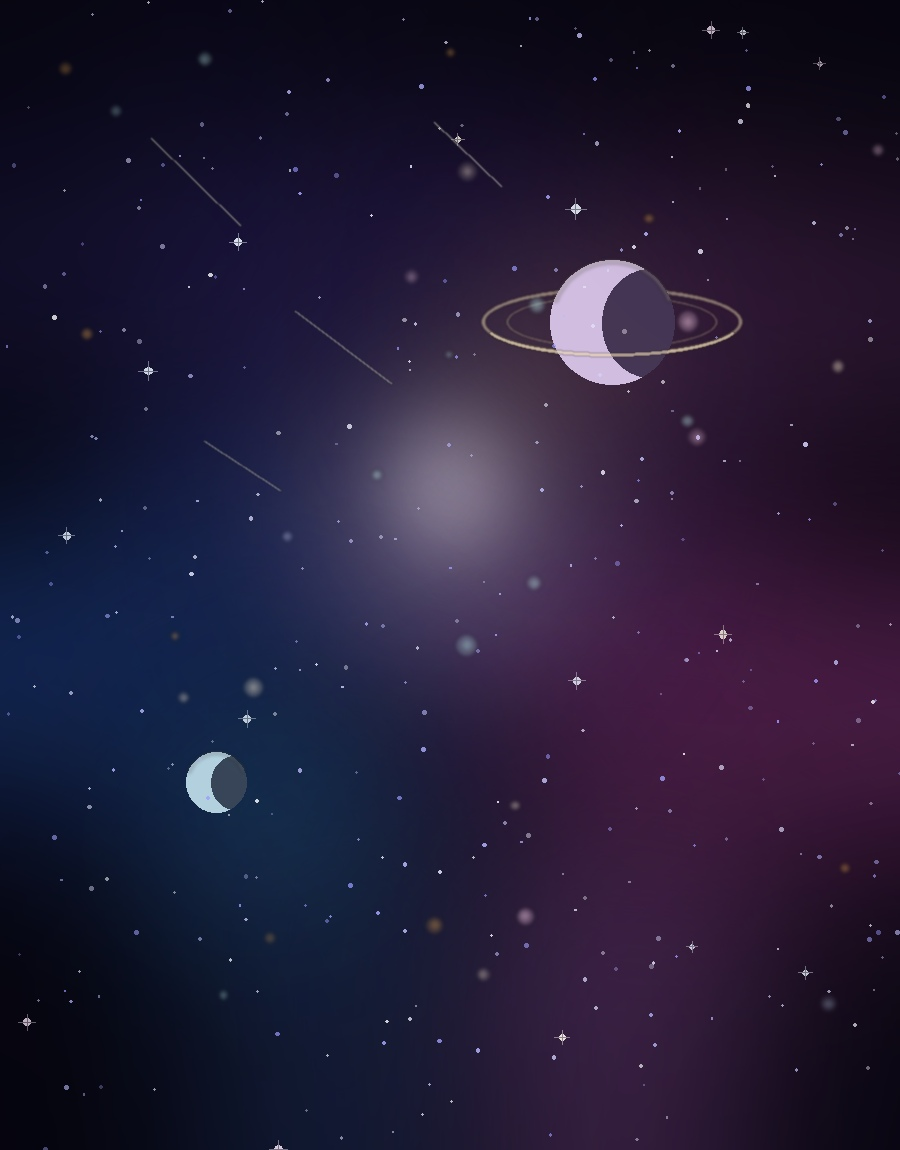
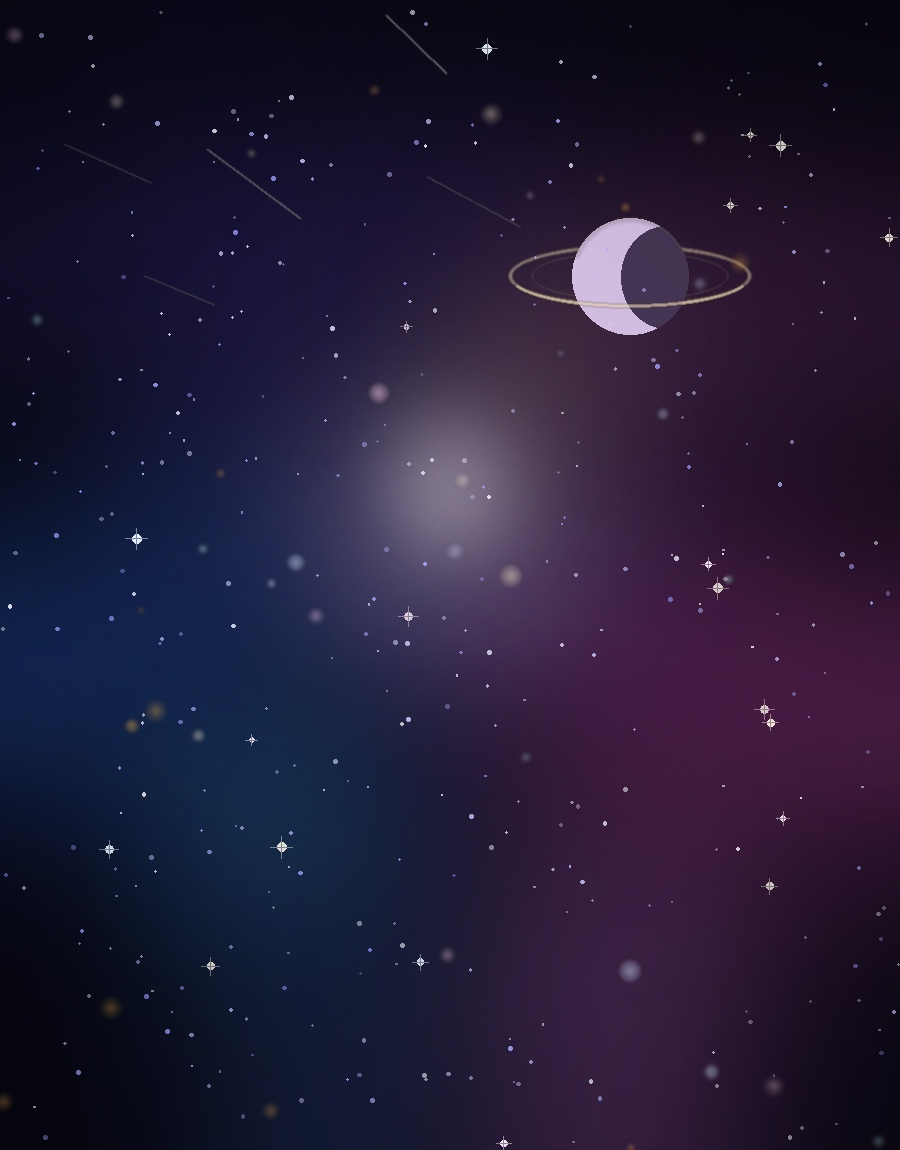
Make the hero background photo actually visible (was blurred/masked into near-invisibility) so the book image reads clearly behind the S monogram

diff --git a/world.html b/world.html
@@ -359,20 +359,20 @@
     const sButterflyTexture = new THREE.TextureLoader().load('assets/butterfly.png');
     const sFlyAspect = 369/324;
     const sButterflies = [];
-    const sN = isSmallScreen ? 7 : 11;
+    const sN = isSmallScreen ? 10 : 15;
     for(let i = 0; i < sN; i++){
       const [cx, cy] = sSampleInside();
       const mat = new THREE.SpriteMaterial({ map: sButterflyTexture, transparent: true, depthWrite: false });
       const sprite = new THREE.Sprite(mat);
-      const size = ((isSmallScreen ? 7 : 9) + Math.random() * 4);
+      const size = ((isSmallScreen ? 6 : 8) + Math.random() * 3.5);
       sprite.scale.set(size * sFlyAspect, size, 1);
       sprite.position.set(cx, cy, (Math.random() * 2 - 1) * S_DEPTH * 0.3);
       sprite.renderOrder = 2;
       sMonogram.add(sprite);
       sButterflies.push({
         sprite, cx, cy, zc: sprite.position.z,
-        rx: 4 + Math.random() * 5, ry: 3.5 + Math.random() * 4.5, rz: S_DEPTH * 0.22,
-        speed: 0.55 + Math.random() * 0.4, phase: Math.random() * Math.PI * 2, phase2: Math.random() * Math.PI * 2,
+        rx: 12 + Math.random() * 14, ry: 11 + Math.random() * 13, rz: S_DEPTH * 0.32,
+        speed: 0.4 + Math.random() * 0.3, phase: Math.random() * Math.PI * 2, phase2: Math.random() * Math.PI * 2,
         baseSize: size, flap: Math.random() * Math.PI * 2, flapSpeed: 0.3 + Math.random() * 0.16
       });
     }

diff --git a/index.html b/index.html
@@ -210,20 +210,20 @@
     const butterflyTexture = new THREE.TextureLoader().load('assets/butterfly.png');
     const flyAspect = 369/324;
     const butterflies = [];
-    const N = isSmallScreen ? 7 : 11;
+    const N = isSmallScreen ? 10 : 15;
     for(let i = 0; i < N; i++){
       const [cx, cy] = sampleInside();
       const mat = new THREE.SpriteMaterial({ map: butterflyTexture, transparent: true, depthWrite: false });
       const sprite = new THREE.Sprite(mat);
-      const size = ((isSmallScreen ? 7 : 9) + Math.random() * 4);
+      const size = ((isSmallScreen ? 6 : 8) + Math.random() * 3.5);
       sprite.scale.set(size * flyAspect, size, 1);
       sprite.position.set(cx, cy, (Math.random() * 2 - 1) * DEPTH * 0.3);
       sprite.renderOrder = 2;
       group.add(sprite);
       butterflies.push({
         sprite, cx, cy, zc: sprite.position.z,
-        rx: 4 + Math.random() * 5, ry: 3.5 + Math.random() * 4.5, rz: DEPTH * 0.22,
-        speed: 0.55 + Math.random() * 0.4, phase: Math.random() * Math.PI * 2, phase2: Math.random() * Math.PI * 2,
+        rx: 12 + Math.random() * 14, ry: 11 + Math.random() * 13, rz: DEPTH * 0.32,
+        speed: 0.4 + Math.random() * 0.3, phase: Math.random() * Math.PI * 2, phase2: Math.random() * Math.PI * 2,
         baseSize: size, flap: Math.random() * Math.PI * 2, flapSpeed: 0.3 + Math.random() * 0.16
       });
     }
